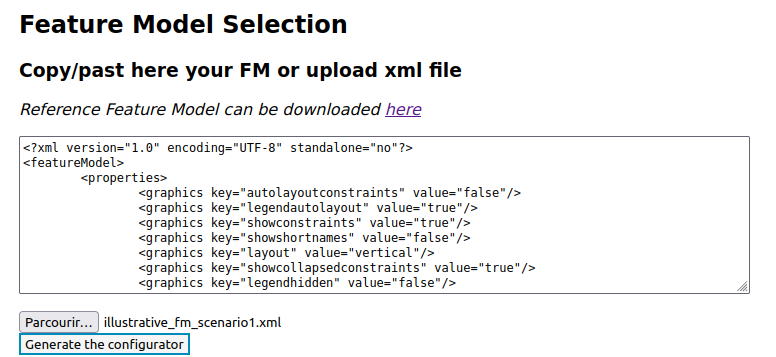
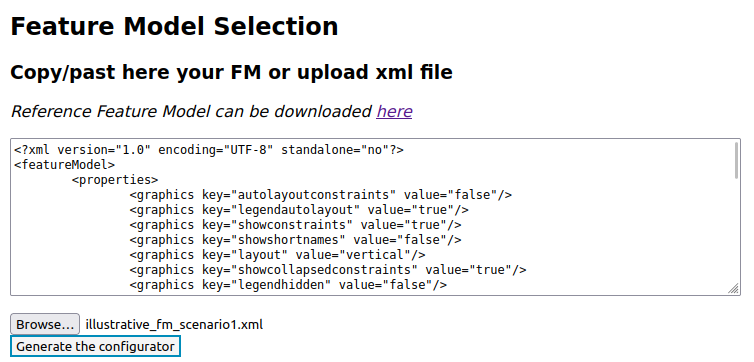
Notebooks and reproduce md fix

diff --git a/reproduce_scenarios/reproduce_scenario1.md b/reproduce_scenarios/reproduce_scenario1.md
@@ -1,6 +1,6 @@
 # Overview
 
-The goal is for you to reproduce the scenario 1 depicted in the _section 5.2_ of the article.
+The goal is for you to reproduce the scenario 1 depicted in the _section 5.2_ of the article (research paper id: 8212 associated with the artifact guidelines).
 With this scenario, we want to evaluate how our approach differentiate itself from a keyword-based search.
 
 Detailed steps are given to you in order to replicate each step of the scenario.
@@ -25,7 +25,7 @@ If a checkbox is grey (see image), it has been automatically checked or disabled
 
 ## Data
 
-Due to very restricted storage space for anonymous repositories, the datasets **are not** included in the reproduction package and notebooks **are not** executable. Datasets will be available in a Zenodo public reproduction package if the paper is accepted.
+Data to reproduce the experience will be given when cloning the experience.
 
 ## Protocol
 
@@ -43,7 +43,7 @@ You will see this web page:
 
 **The web page must be reloaded between each scenario**
 
-3. In the section _Feature Model Selection_, click on _browse_ / _parcourir_ button.
+3. In the section _Feature Model Selection_, click on _browse_ button.
 
 4. Go through your files, to the project directory. Once you're in, go into _static_, _illustration_test_case_, and select _illustrative_fm_scenario1.xml_.
 
@@ -107,15 +107,28 @@ Click on the select menu in order to display options, then select the **XP2** op
 
 This should trigger the download of the **XP2** project as a **zip file**. Depending on your browser settings, you might be asked where you want to save the file. Save it where it will be easy for you to find it.
 
-Once you have unzipped the project, you should have a directory with this file strucutre :
+Once you have unzipped the project, you should have a directory with this file strucutre:
 
-You should have a directory called _XP2_electrical_engine_sound_anomaly_detection_ and a file _current_config.xml_. This xml file is the configuration that you just realized.
+XP2_electrical_engine_sound_anomaly_detection/  
+&nbsp;&nbsp;&nbsp; XP2_electrical_engine_sound_anomaly_detection/  
+&nbsp;&nbsp;&nbsp;&nbsp;&nbsp; dataset/  
+&nbsp;&nbsp;&nbsp;&nbsp;&nbsp;&nbsp;&nbsp; IDMT-ISA-ELECTRICAL-ENGINE/  
+&nbsp;&nbsp;&nbsp;&nbsp;&nbsp;&nbsp;&nbsp; Spectrograms/  
+&nbsp;&nbsp;&nbsp;&nbsp;&nbsp; notebook.ipynb  
+&nbsp;&nbsp;&nbsp;&nbsp;&nbsp; XP2_config.xml  
+&nbsp;&nbsp;&nbsp; current_config.xml
 
-In the directory, you will find the notebook file, _notebook.ipynb_ and the configuration file of this project, _XP2_config.xml_.
+The subfolder of XP2 contains the configuration, the notebook and dataset of this experience.
+Your configuration is the file _current_config.xml_
 
 ### End
 
-You can open the notebook in order to check its construction but it is not executable as it is specified at the beginning of this document.
+You can open the notebook in order to check its construction.  
+If you want to execute the notebook you will have to install the libraries first.
+Then you have two possibilities:
+
+- Execute cells in sequential order starting from the imports cell. Starting there will make you do some very heavy task to compute spectrograms data. (The \*Data formating\*\* section)
+- Execute cells in sequential order starting from the imports cell but skip the **Data formating** section, as Spectrograms data are already computed and included with the dataset.
 
 ### Conclusion
 

diff --git a/reproduce_scenarios/reproduce_scenario2.md b/reproduce_scenarios/reproduce_scenario2.md
@@ -1,7 +1,8 @@
 # Overview
 
-The goal is for you to reproduce the scenario depicted in the _section 5.3_ of the article.
+The goal is for you to reproduce the scenario depicted in the _section 5.3_ of the article (research paper id: 8212 associated with the artifact guidelines).
 With this scenario, we aim to evaluate how our approach, through its configuration and generation capabilities, helps the user to compose a solution that experiments only partially cover.
+
 Detailed steps are given to you in order to replicate each step of the scenario.
 
 **Disclaimer**:
@@ -24,9 +25,9 @@ If a checkbox is grey (see image), it has been automatically checked or disabled
 
 ## Data
 
-Due to very restricted storage space for anonymous repositories, the datasets **are not** included in the reproduction package and notebooks **are not** executable. Datasets will be available in a Zenodo public reproduction package if the paper is accepted.
+This experience reproduce a situation where the replicator only clones a notebook and not a complete experience, so no dataset are provided with the cloned product.
 
-In order to make a light package, some ML artifacts source code were not included. The CNNAE, that is used in this scenario is one of them, hence you will not be able to find it in the generated notebook. This will be fixed in the public artifact if the paper is accepted.
+However, if the replicator, wants to clone the experience instead of the notebook, dataset will be provided along the notebook and the configuration at the clone step.
 
 ## Protocol
 
@@ -44,7 +45,7 @@ You will see this web page:
 
 **The web page must be reloaded between each scenario**
 
-3. In the section _Feature Model Selection_, click on _browse_ / _parcourir_ button.
+3. In the section _Feature Model Selection_, click on _browse_ button.
 
 4. Go through your files, to the project directory. Once you're in, go into _static_, _illustration_test_case_, and select _illustrative_fm_scenario2.xml_.
 
@@ -138,11 +139,17 @@ This should trigger the download of the notebook as a **zip file**. Depending on
 
 Once you have unzipped, you should have a directory with this structure:
 
-In the directory you will find the noteboook file, _NB2_electrical_engine_sound_anomaly_detection.ipynb_ and the configuration of your current project, _current_config.xml_.
+NB2_electrical_engine_sound_anomaly_detection/  
+&nbsp;&nbsp;&nbsp; NB2_electrical_engine_sound_anomaly_detection.ipynb  
+&nbsp;&nbsp;&nbsp; current_config.xml
+
+As you only cloned a notebook because the data of related experiment are not compatible with yours, dataset are not provided.
+
+However if you want to run this notebook in particular, you can do the **reproduce_scenario1.md**
 
 ### End
 
-You can open notebooks in order to check their construction but they are not executable as it is specified at the beginning of this document.
+You can open notebooks in order to check their construction.
 
 ### Conclusion
 

diff --git a/reproduce_scenarios/reproduce_scenario3.md b/reproduce_scenarios/reproduce_scenario3.md
@@ -1,6 +1,6 @@
 # Overview
 
-The goal is for you to reproduce the scenario depicted in the _section 5.4_ of the article.
+The goal is for you to reproduce the scenario depicted in the _section 5.4_ of the article (research paper id: 8212 associated with the artifact guidelines).
 With this scenario, we want to evaluate the correctness of the generative process, from the proposed code artifacts to the generated Notebook, focusing on the scenario where no previous experiment or solution is available after the configuration process.
 
 Detailed steps are given to you in order to replicate each step of the scenario.
@@ -25,7 +25,7 @@ If a checkbox is grey (see image), it has been automatically checked or disabled
 
 ## Data
 
-Due to very restricted storage space for anonymous repositories, the datasets **are not** included in the reproduction package and notebooks **are not executable**. Datasets will be available in a Zenodo public reproduction package if the paper is accepted.
+This experience reproduce a situation where the replicator only generates a notebook and do not clone experience nor notebooks, so no dataset are provided with the cloned product.
 
 ## Protocol
 
@@ -117,7 +117,7 @@ You should see this on your screen:
 
 ### End
 
-You can open notebooks in order to check their construction but they are not executable as it is specified at the beginning of this document.
+You can open notebooks in order to check their construction but they are not executable because adaped data import steps are not generated, and more broadly they are generated as a base product for the user to work on, not as a final product.
 
 ### Conclusion
 
